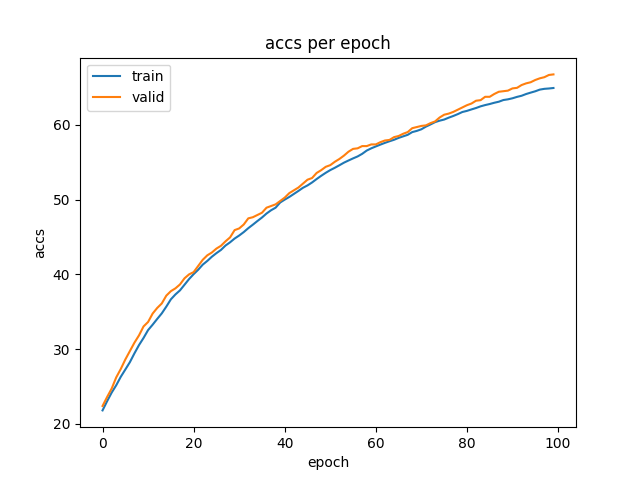
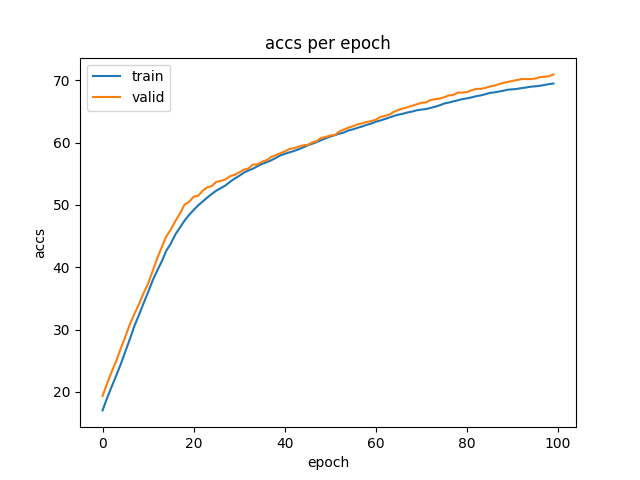
ch8

diff --git a/08_neural_networks/77_minibatch.py b/08_neural_networks/77_minibatch.py
@@ -6,7 +6,7 @@ import torch
 from torch import Tensor, nn
 from torch.utils.data import DataLoader
 
-from utils import TextDataset, calc_acc
+from utils import TextDataset, calc_acc, make_graph
 from models import NetSingleLayer
 
 
@@ -17,16 +17,19 @@ valid_X, valid_Y = load_tensor.load_tensor("valid")
 dataset = TextDataset(train_X, train_Y)
 valid_losses = []
 valid_accs = []
+train_losses = []
+train_accs = []
 
-batchsizes = [1, 2, 4, 8, 16, 32, 64, 128]
+# we can decrease an amount of memory usage when batch size is small
+batchsizes = [1]
 for batchsize in batchsizes:
-    net = NetSingleLayer(in_shape=train_X.shape[1], out_shape=4)
+    net = nn.Linear(300, 4)
 
     loss = nn.CrossEntropyLoss()
     optimizer = torch.optim.SGD(net.parameters(), lr=0.01)
     loader = DataLoader(dataset, batch_size=batchsize, shuffle=True)
 
-    for epoch in range(1):
+    for epoch in range(100):
 
         start = time.time()
 
@@ -44,17 +47,29 @@ for batchsize in batchsizes:
             optimizer.step()
 
         calcuration_time = time.time() - start
-        print(f"batchsize{batchsize} time:{calcuration_time: .2f}")
+        # print(f"batchsize{batchsize} time:{calcuration_time: .2f}")
+
+        train_y_pred_prob = net(train_X)
+        train_acc = calc_acc(train_y_pred_prob, train_Y)
 
         valid_y_pred_prob = net(valid_X)
         valid_acc = calc_acc(valid_y_pred_prob, valid_Y)
         valid_loss = loss(valid_y_pred_prob, valid_Y)
+        train_loss = loss(train_y_pred_prob, train_Y)
+
+        print(f"{batchsize}: acc={valid_acc} loss={valid_loss}")
+        train_accs.append(train_acc)
+        train_losses.append(train_loss)
         valid_accs.append(valid_acc)
-        valid_losses.append(valid_loss.data)
+        valid_losses.append(valid_loss)
 
+losses = {"train": train_losses, "valid": valid_losses}
+accs = {"train": train_accs, "valid": valid_accs}
+make_graph(losses, "losses", 77)
+make_graph(accs, "accs", 77)
 
-for i in range(len(batchsizes)):
-    print(f"{batchsizes[i]}: acc={valid_accs[i]} loss={valid_losses[i]}")
+# for i in range(len(batchsizes)):
+#     print(f"{batchsizes[i]}: acc={valid_accs[i]} loss={valid_losses[i]}")
 
 
 # batchsize1 time: 129.30

diff --git a/08_neural_networks/79_multi_layer.py b/08_neural_networks/79_multi_layer.py
@@ -30,7 +30,7 @@ train_X, train_Y, valid_X, valid_Y = train_X.to(device), train_Y.to(
 net = NetThreeLayer(in_shape=train_X.shape[1], out_shape=4).to(device)
 
 loss = nn.CrossEntropyLoss()
-optimizer = torch.optim.SGD(net.parameters(), lr=0.01)
+optimizer = torch.optim.Adam(net.parameters(), lr=0.01)
 
 dataset = TextDataset(train_X, train_Y)
 
@@ -63,8 +63,8 @@ for epoch in range(100):
 
         optimizer.step()
 
-    train_acc = calc_acc(net, train_X, train_Y)
-    valid_acc = calc_acc(net, valid_X, valid_Y)
+    train_acc = calc_acc(train_X, train_Y)
+    valid_acc = calc_acc(valid_X, valid_Y)
 
     train_accs.append(train_acc)
     train_losses.append(train_running_loss)

diff --git a/08_neural_networks/75_plot_loss_accuracy.py b/08_neural_networks/75_plot_loss_accuracy.py
@@ -17,7 +17,7 @@ train_accs = []
 valid_losses = []
 valid_accs = []
 
-for epoch in range(100):
+for epoch in range(1000):
     optimizer.zero_grad()
 
     # predicat train data
@@ -48,5 +48,5 @@ for epoch in range(100):
 losses = {"train": train_losses, "valid": valid_losses}
 accs = {"train": train_accs, "valid": valid_accs}
 
-make_graph(losses, "losses", 75)
-make_graph(accs, "accs", 75)
+make_graph(losses, "losses", 751)
+make_graph(accs, "accs", 751)
